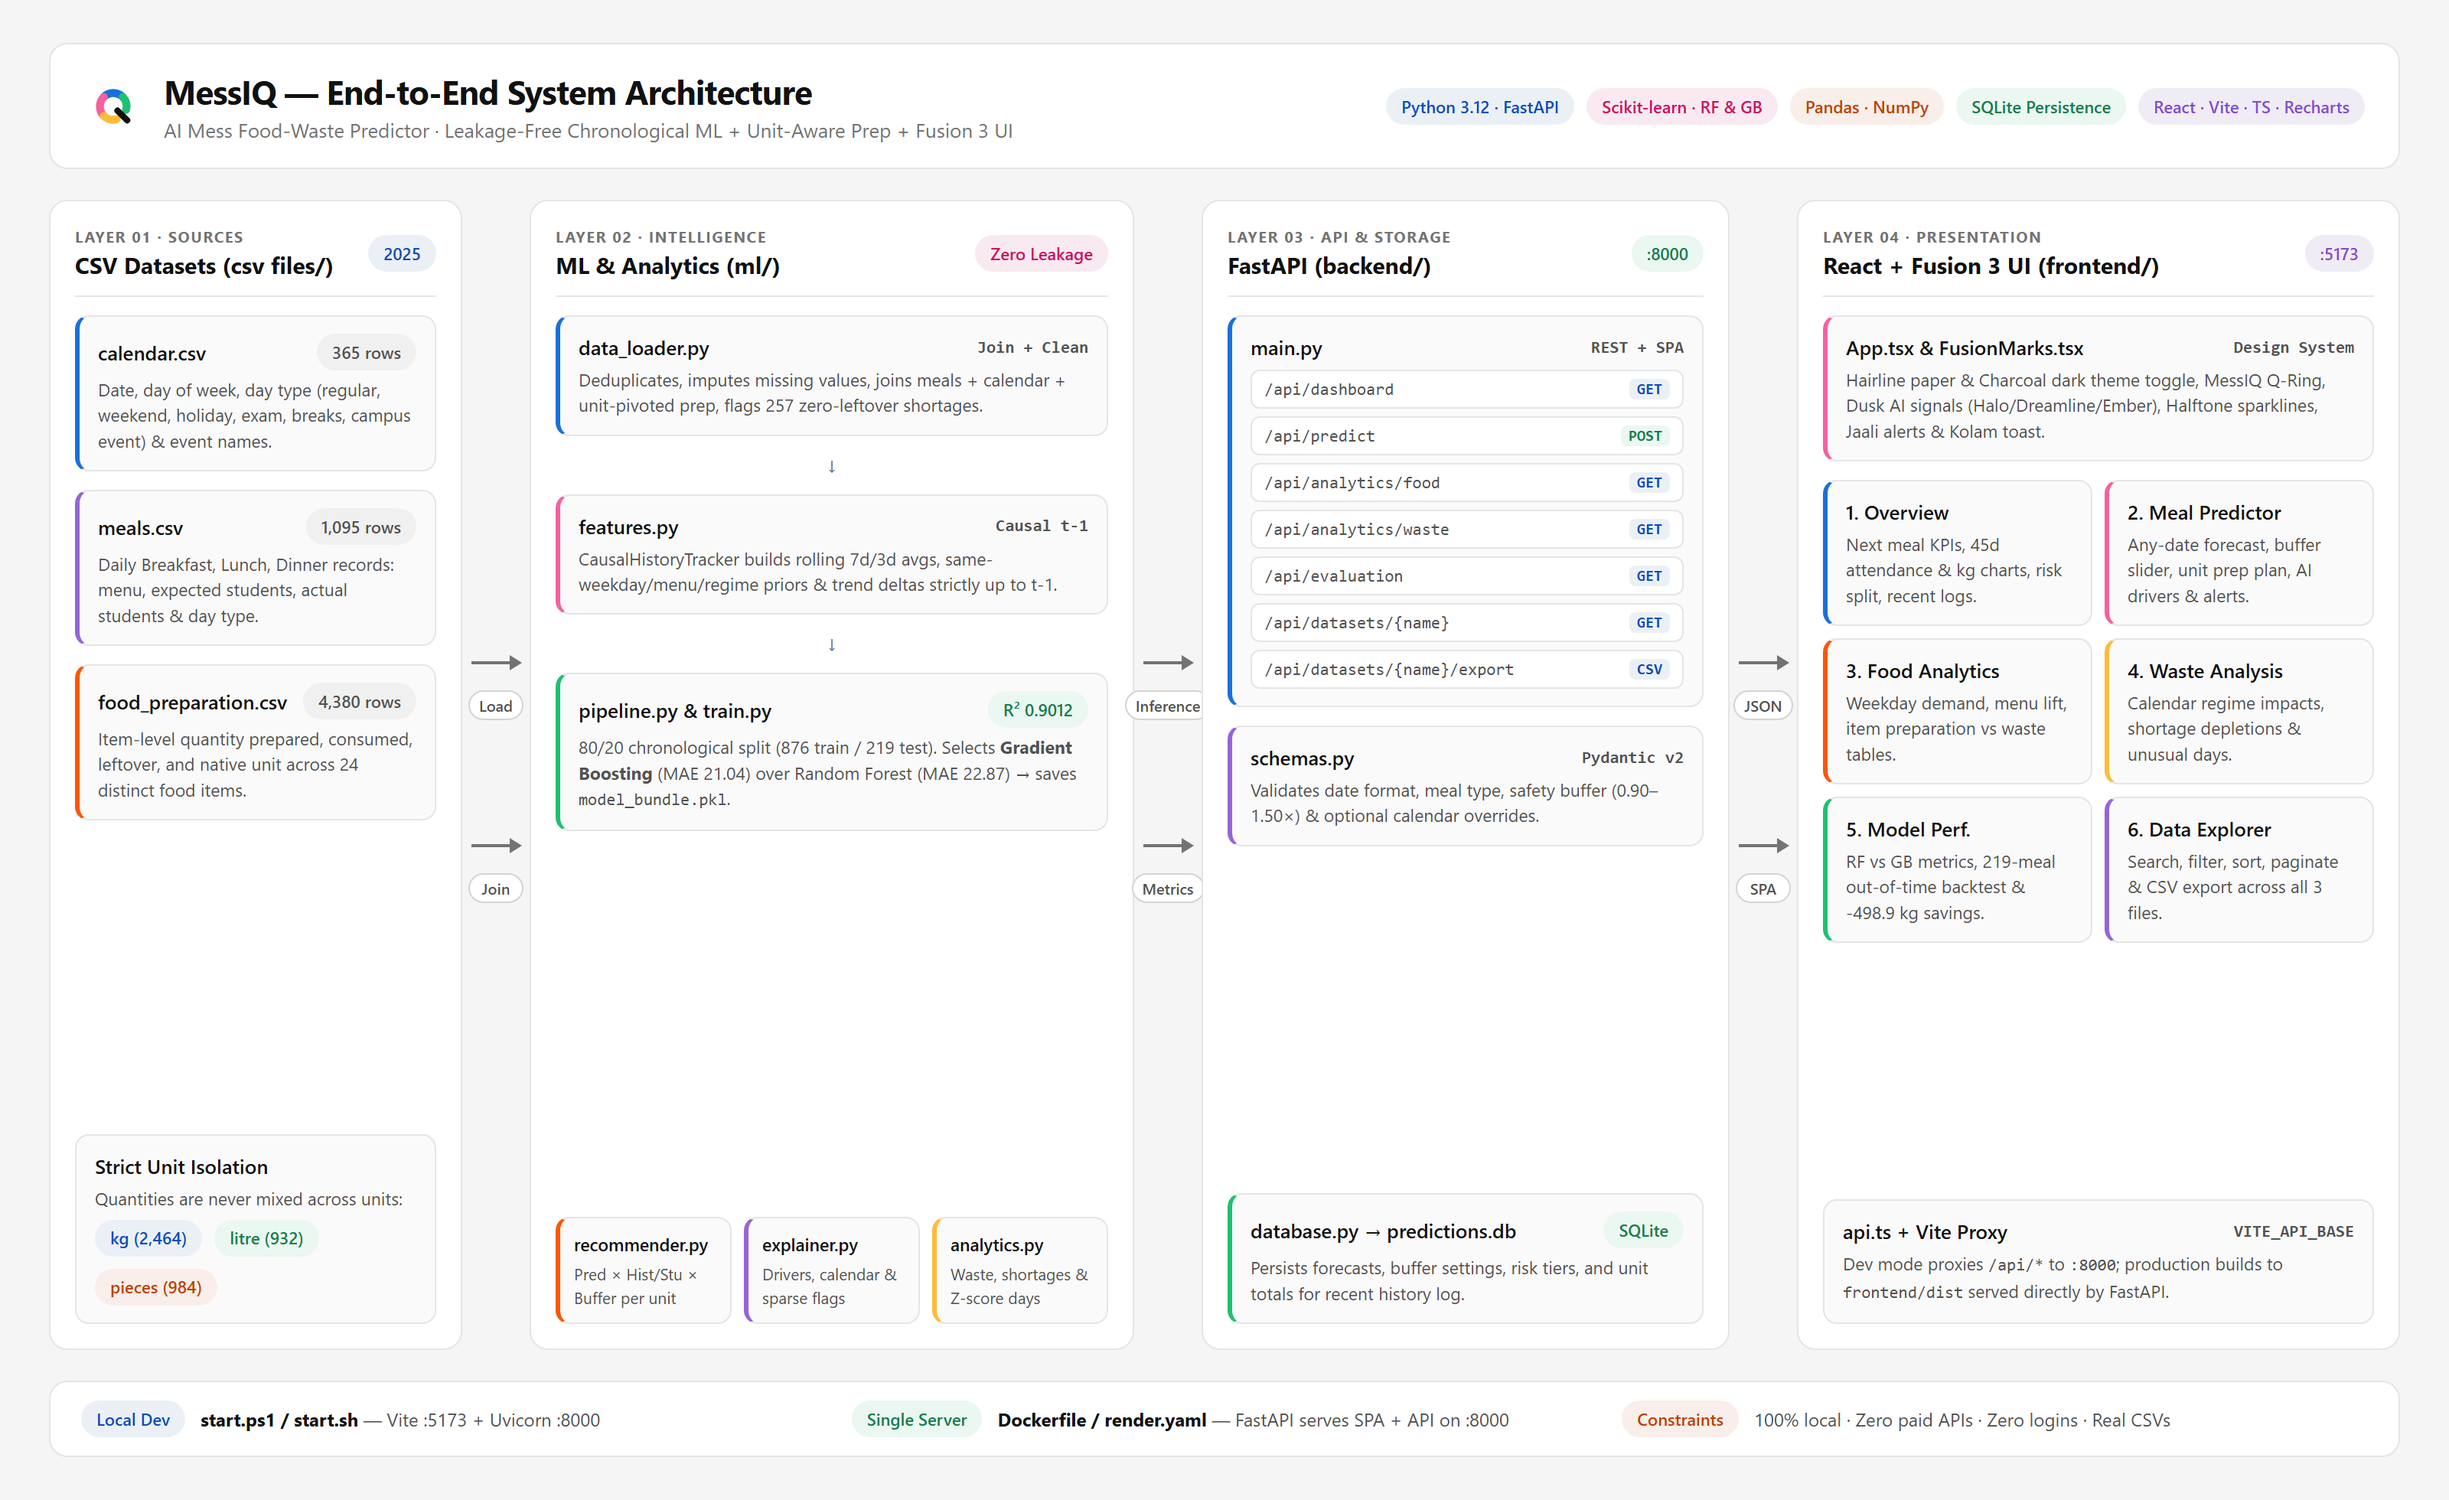
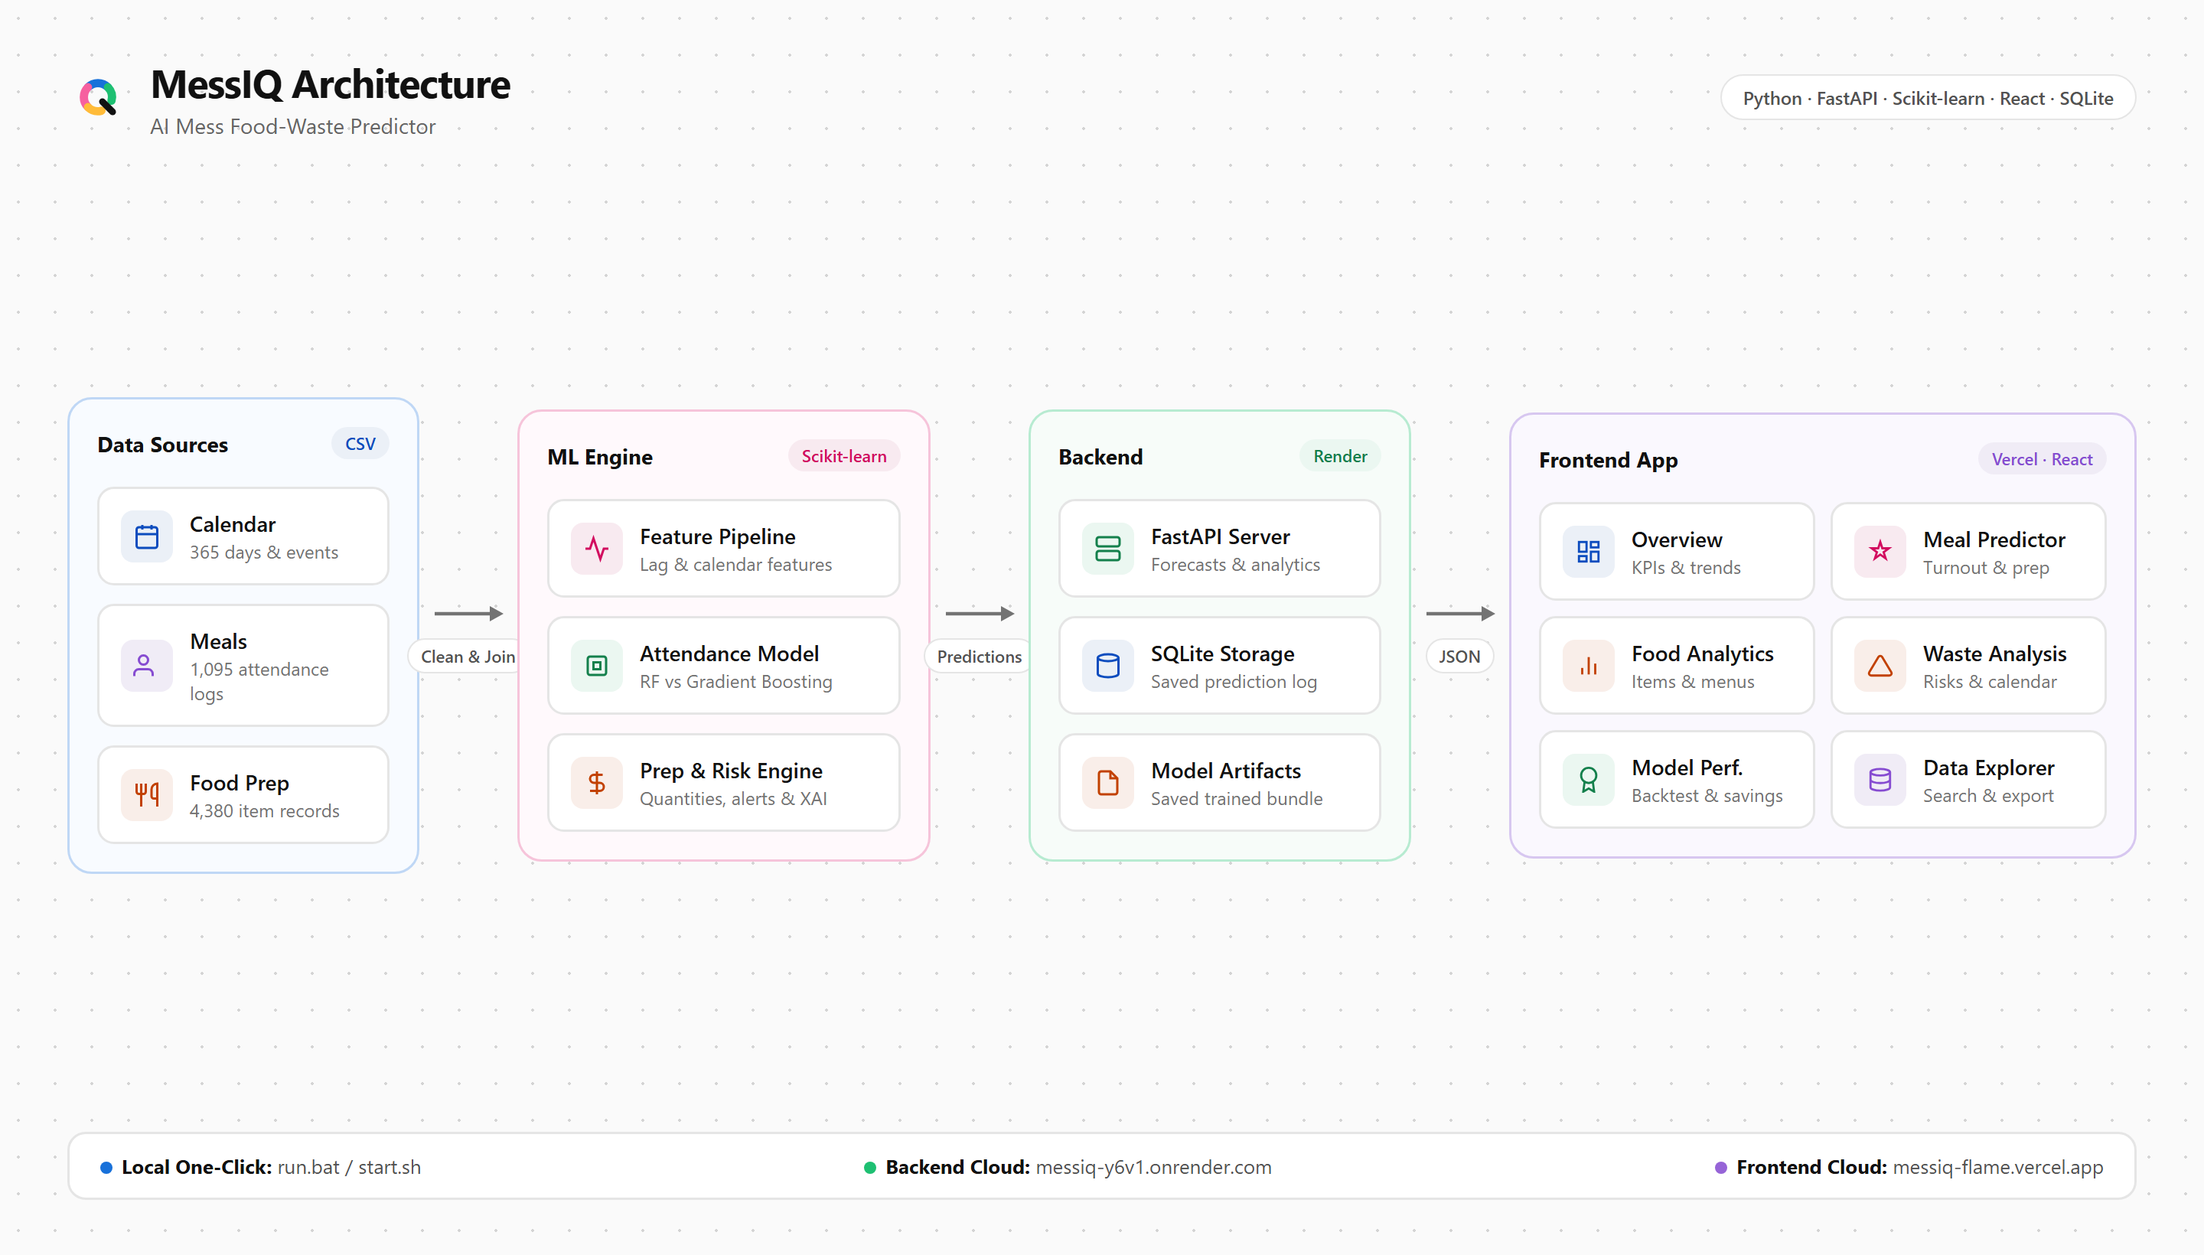
Add /status health endpoint and clean Eraser-style architecture diagram

diff --git a/backend/main.py b/backend/main.py
@@ -5,7 +5,7 @@ from __future__ import annotations
 import io
 import sys
 from contextlib import asynccontextmanager
-from datetime import datetime, timedelta
+from datetime import datetime, timedelta, timezone
 from pathlib import Path
 from typing import Any, Dict, List, Optional
 
@@ -63,6 +63,32 @@ def health() -> Dict[str, Any]:
         "status": "ok",
         "selected_model": art.best_model_name,
         "dataset_rows": art.datasets.data_quality_report,
+    }
+
+
+@app.get("/status")
+@app.get("/api/status")
+def status() -> Dict[str, Any]:
+    art = get_artifacts()
+    db_ok = True
+    try:
+        init_db()
+    except Exception:
+        db_ok = False
+    dq = art.datasets.data_quality_report
+    return {
+        "status": "healthy" if db_ok else "degraded",
+        "service": "MessIQ Backend",
+        "version": "1.0.0",
+        "model_loaded": True,
+        "selected_model": art.best_model_name,
+        "database": "connected" if db_ok else "unavailable",
+        "datasets_loaded": {
+            "calendar": dq["calendar_rows"],
+            "meals": dq["meals_rows"],
+            "food_preparation": dq["food_prep_rows"],
+        },
+        "timestamp": datetime.now(timezone.utc).isoformat(),
     }
 
 
